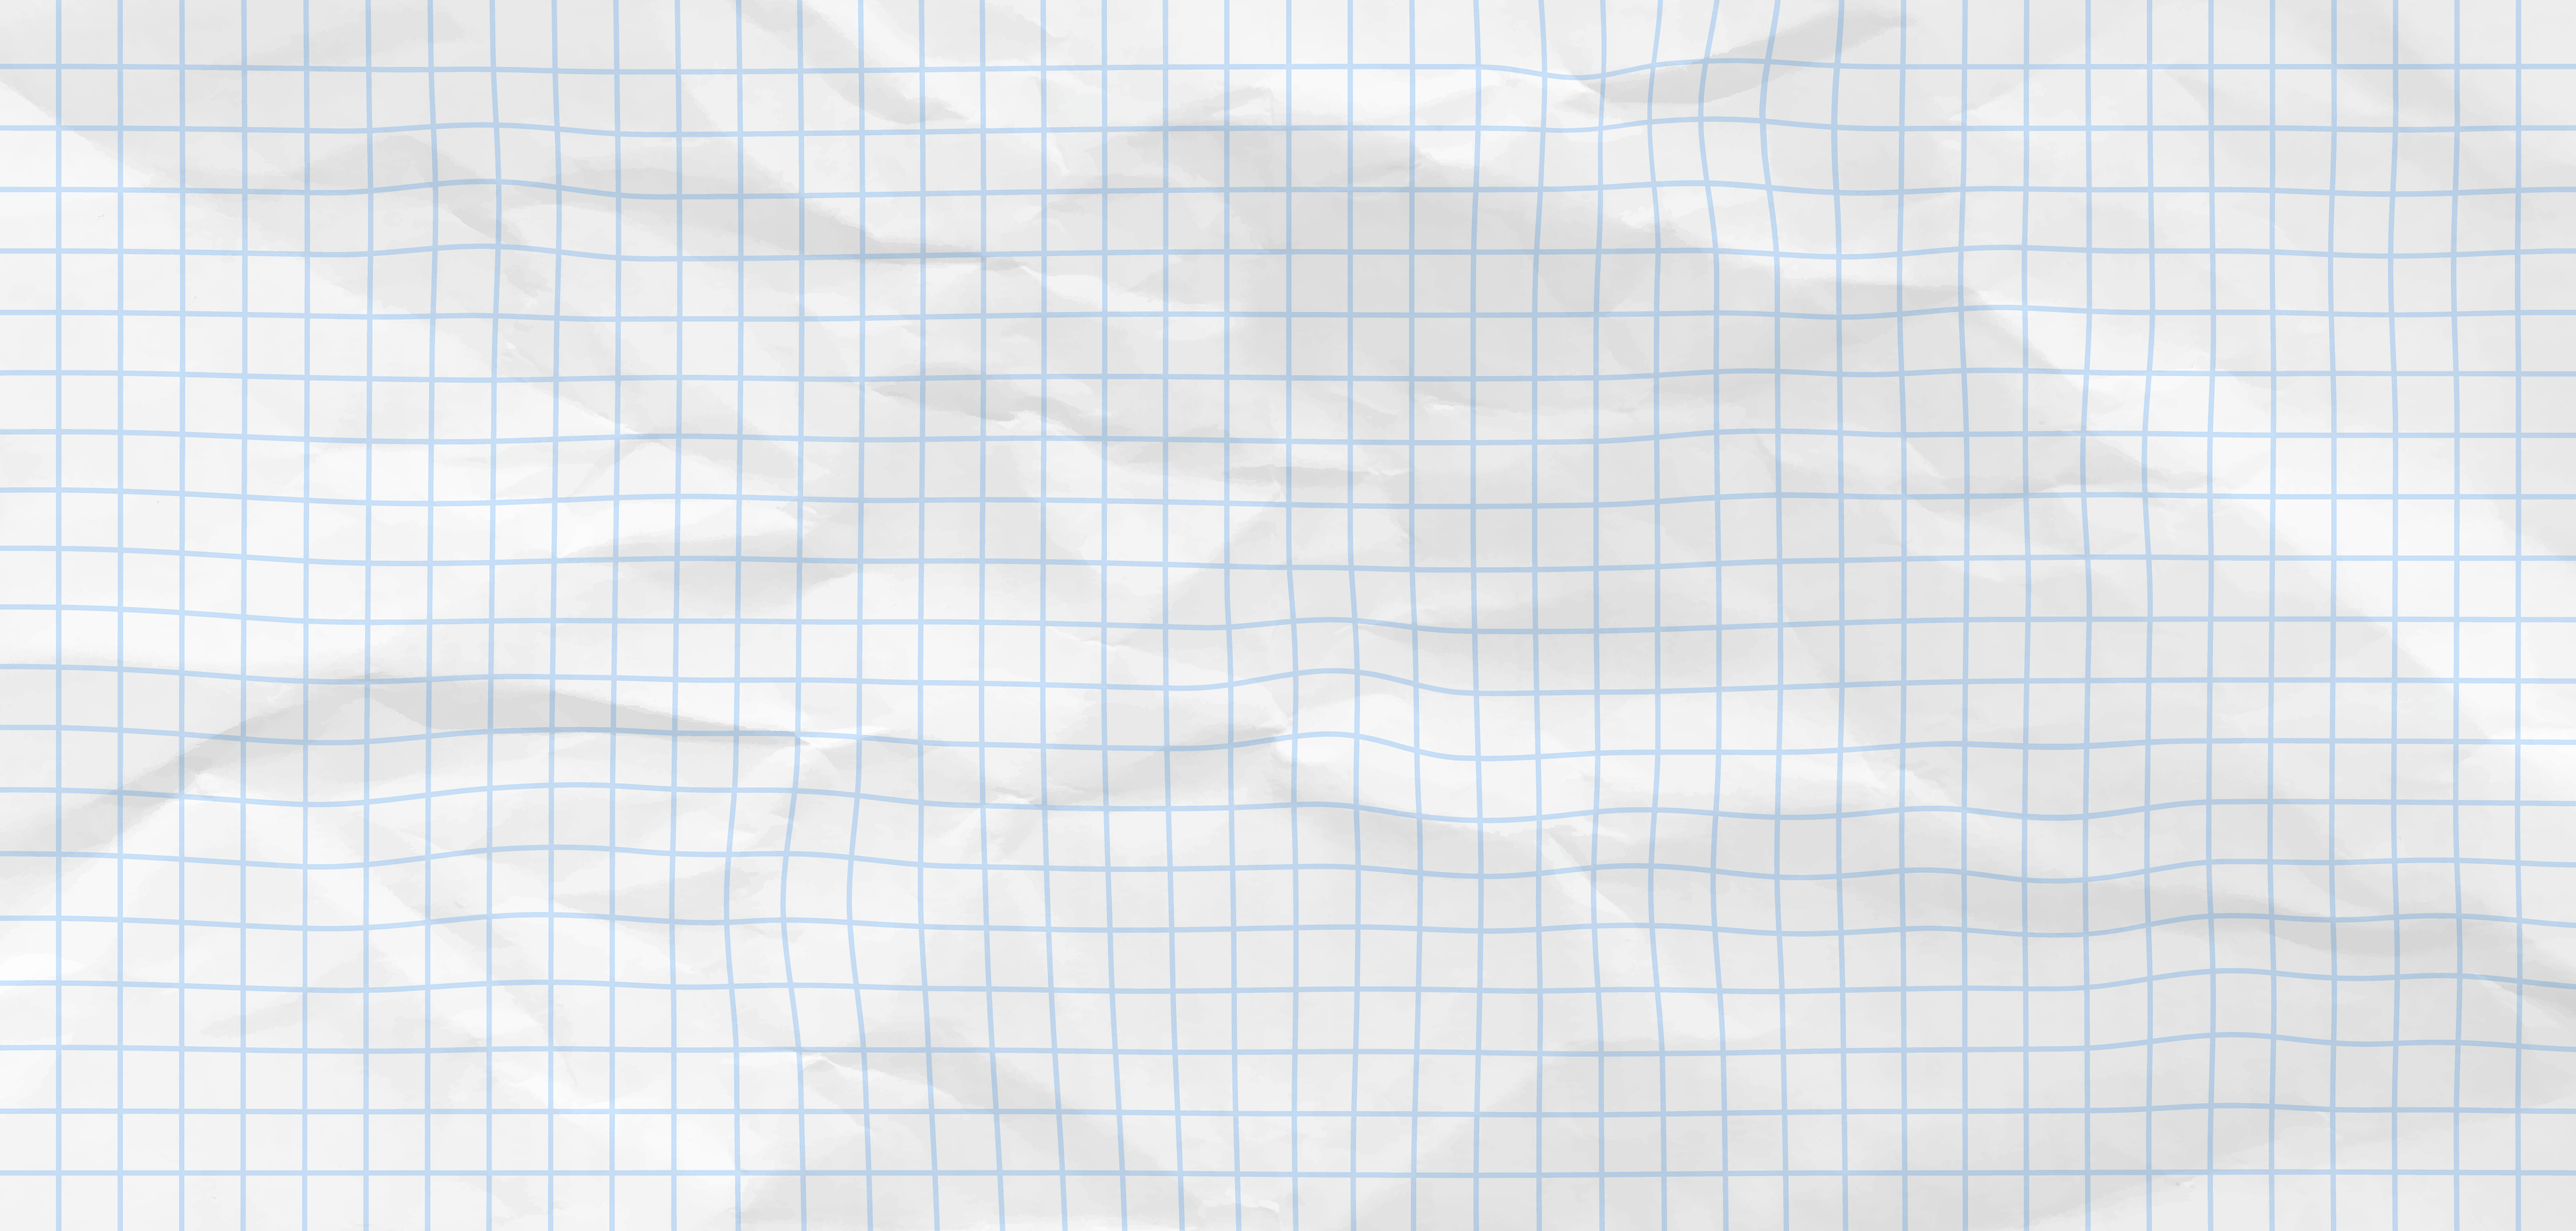
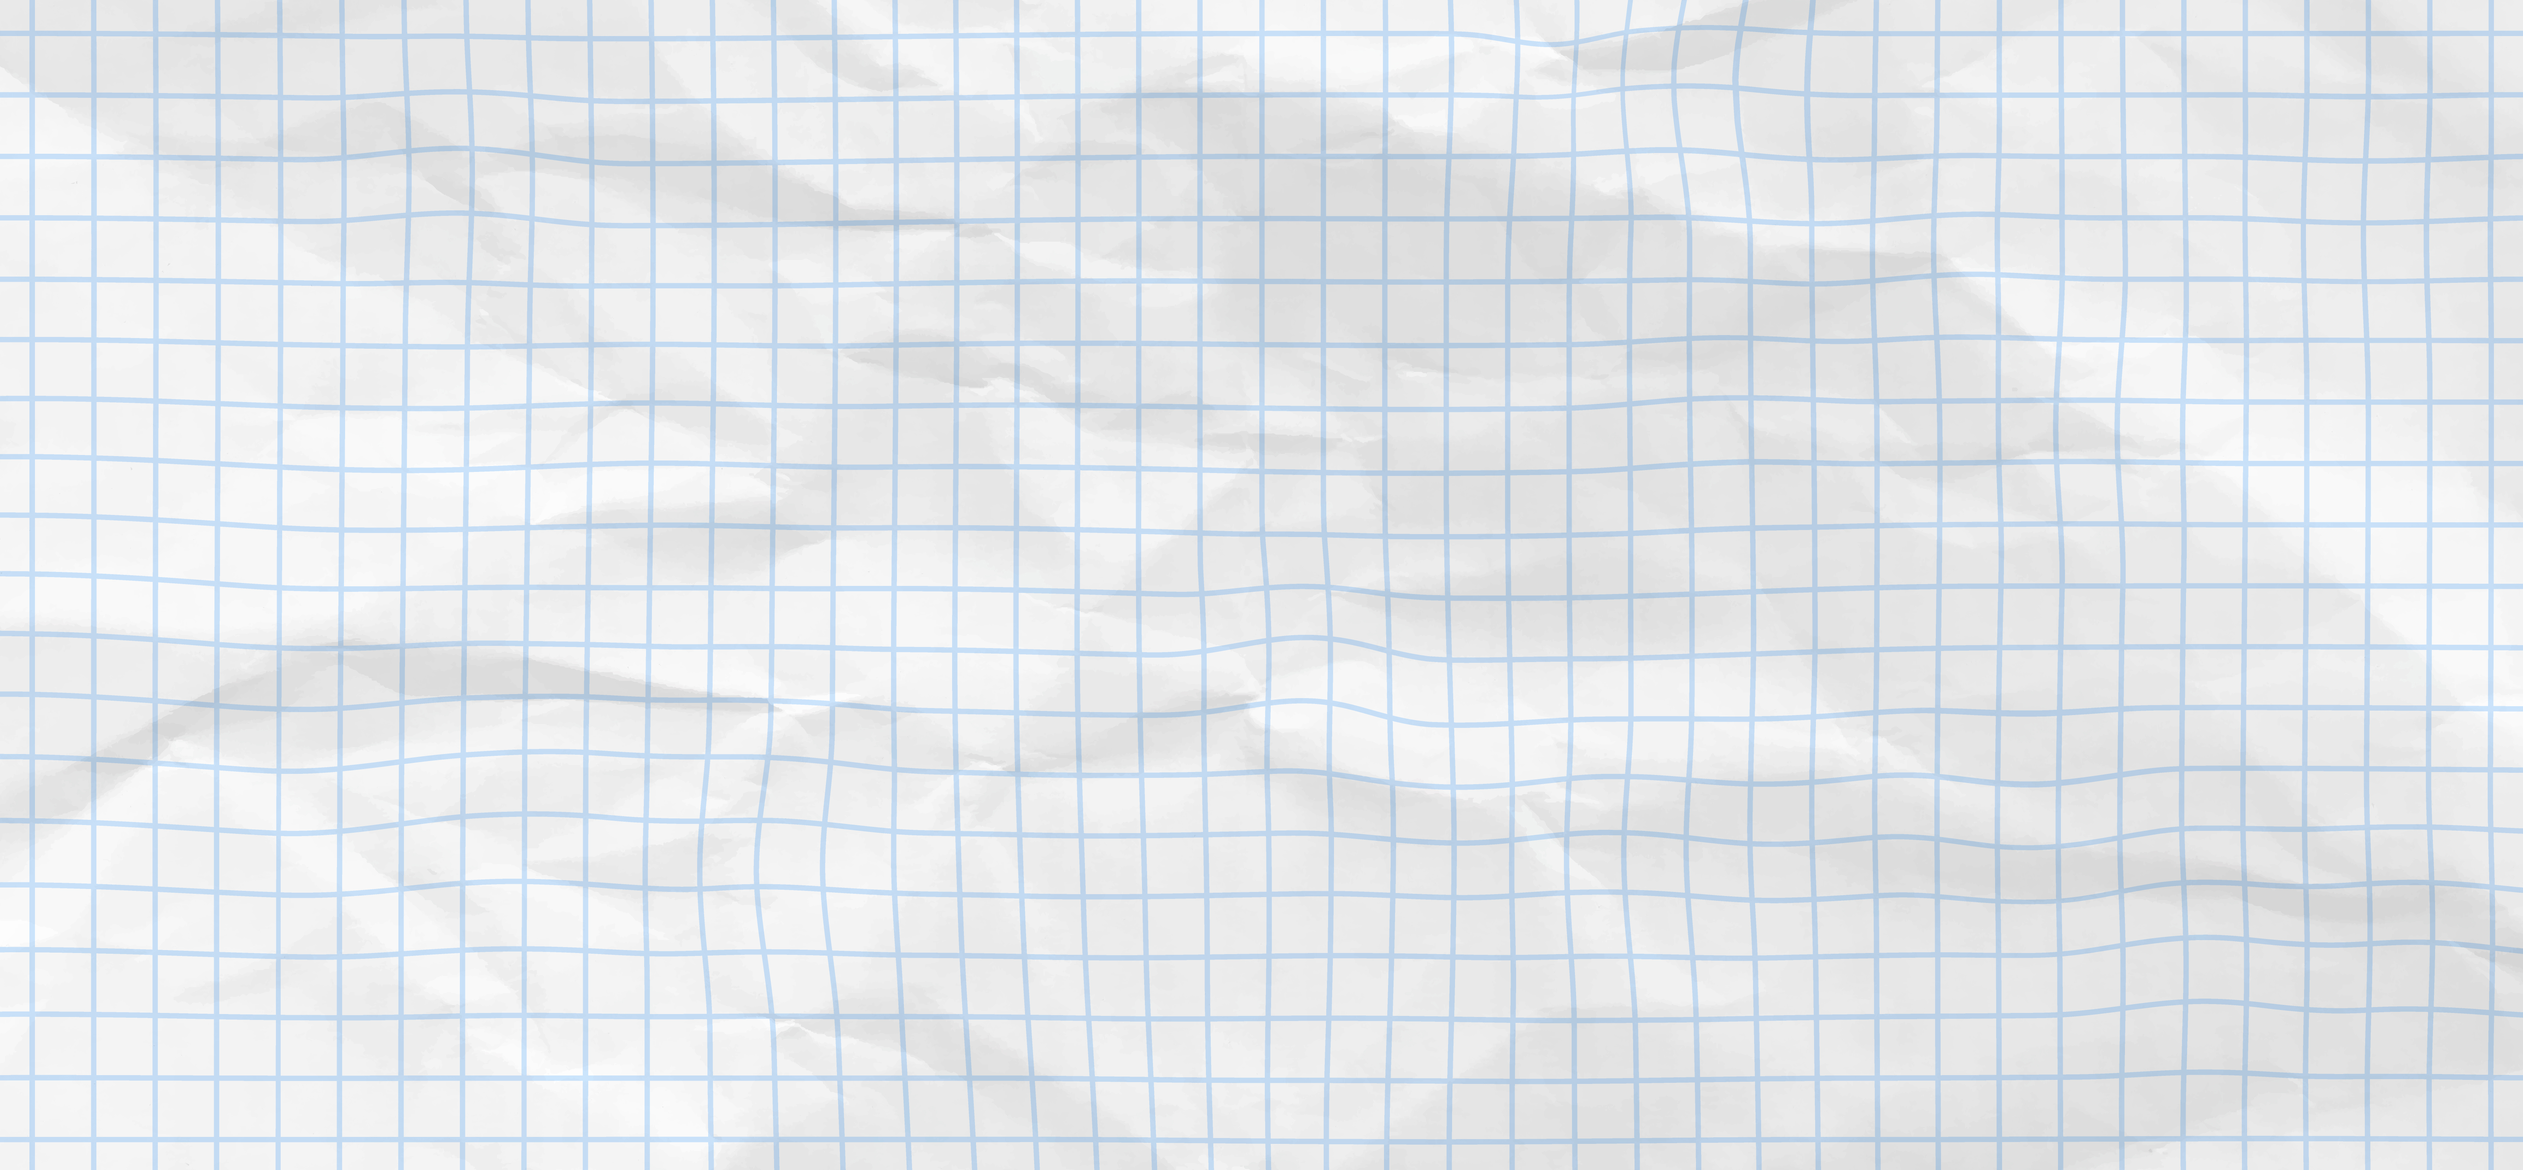
Tile nicer and rename task

Changed region(s): [[0.0, 0.0, 1.0, 1.0]]

diff --git a/fatleaders/tasks.py b/fatleaders/tasks.py
@@ -6,6 +6,7 @@ from django.db.models import Count
 from allianceauth.eveonline.models import EveCharacter, EveCorporationInfo
 from .models import FatBoardLeadersSetup, LeaderBoardTypeThrough
 from PIL import Image, ImageDraw, ImageFont
+
 import io
 from afat.models import AFat
 
@@ -15,7 +16,7 @@ from . import fonts, images
 
 
 @shared_task
-def post_all_leader_boards(current_month=False, channel_id=0, fun=False):
+def post_all_corporate_leader_boards(current_month=False, channel_id=0, fun=False):
     for lb in FatBoardLeadersSetup.objects.all():
         start_time = timezone.now()
         if not current_month:
@@ -95,7 +96,12 @@ def post_all_leader_boards(current_month=False, channel_id=0, fun=False):
                     for i in range(0, w, bg_w):
                         for j in range(0, h, bg_h):
                             # paste the image at location i, j:
-                            img.paste(img_tile, (i, j))
+                            fl_img = img_tile
+                            if (i % 2) == 0:
+                                fl_img = fl_img.transpose(Image.Transpose.FLIP_LEFT_RIGHT)
+                            if (j % 2) == 0:
+                                fl_img = fl_img.transpose(Image.Transpose.FLIP_TOP_BOTTOM)
+                            img.paste(fl_img, (i, j))
 
         _, _, _w, _ = font.getbbox(lb.name)
         d.text(((total_width-_w)/2, line_y),

diff --git a/fatleaders/leadercog.py b/fatleaders/leadercog.py
@@ -4,7 +4,7 @@ from discord.ext import commands
 # AA Contexts
 from django.conf import settings
 from aadiscordbot.cogs.utils.decorators import is_admin
-from .tasks import post_all_leader_boards
+from .tasks import post_all_corporate_leader_boards
 
 import logging
 
@@ -29,7 +29,7 @@ class FatLeaders(commands.Cog):
             
             if is_admin(ctx.author.id):
                 
-                post_all_leader_boards.delay(current_month=True, channel_id=ctx.channel.id, fun=alternate)
+                post_all_corporate_leader_boards.delay(current_month=True, channel_id=ctx.channel.id, fun=alternate)
             await ctx.respond("Requested! Standby!", ephemeral=True)
         except commands.MissingPermissions as e:
             return await ctx.respond(e.missing_permissions[0], ephemeral=True)
